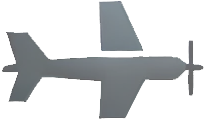
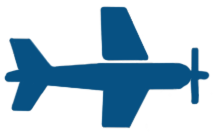
Update images and contact section layout
Replaced two PNG images with updated versions. Fixed a typo in the index.html favicon path and adjusted padding class. Improved the contact section in zach-atkinson.html by adding a LinkedIn icon, updating layout, and fixing markup issues.

diff --git a/zach-atkinson.html b/zach-atkinson.html
@@ -173,10 +173,22 @@
             <div class="mt-5">
               <h2 class="font-bold text-2xl">Contact</h2>
             </div>
-            <div class="mt-2 flex flex-wrap">
-              <div class="w-1/2">
-                <a href="mailto:zaatkin@okstate.edu" lass="hover:text-gray-600">zaatkin@okstate.edu</a>
-              </div>
+            <div class="mt-2 align-center flex-wrap ">
+              <img
+                src="https://upload.wikimedia.org/wikipedia/commons/thumb/8/81/LinkedIn_icon.svg/2048px-LinkedIn_icon.svg.png"
+                style="height: 35px; width: auto"
+                alt="LinkedIn"
+                class="mr-4"
+              />
+              <a href="mailto:zaatkin@okstate.edu" lass="hover:text-gray-600"
+                >zaatkin@okstate.edu</a
+              >
+              <a
+                href="https://www.linkedin.com/in/anthony-comer-9270431a7"
+                target="_blank"
+                class="transition-transform duration-300 ease-in-out hover:-translate-y-1"
+              >
+              </a>
             </div>
 
             <div class="mt-5">

diff --git a/index.html b/index.html
@@ -6,7 +6,7 @@
     <title>S2FAR</title>
     <link
       rel="icon"
-      href="img/S2FAR_Plane_Only_Transparent_Gray.png"
+      href="img\S2FAR_Plane_Only_Transparent_Gray.png"
       type="image/x-icon"
     />
     <script src="https://cdn.tailwindcss.com"></script>
@@ -154,7 +154,7 @@
     <section class="relative bg-gray-300 lg:px-24 pt-32 pb-20 px-4">
       <div class="container mx-auto">
         <div class="flex flex-wrap items-center justify-between">
-          <div class="w-full md:w-1/2 order-2 md:order-2 md:pl-10">
+          <div class="w-full md:w-1/2 order-2 md:order-2 md:pr-10">
             <h1
               class="md:mt-0 mt-4 text-pretty md:text-center md:uppercase md:text-4xl font-semibold tracking-tight text-gray-900 text-2xl"
             >
